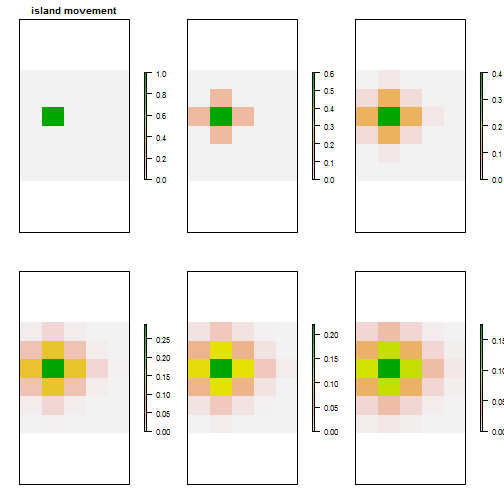
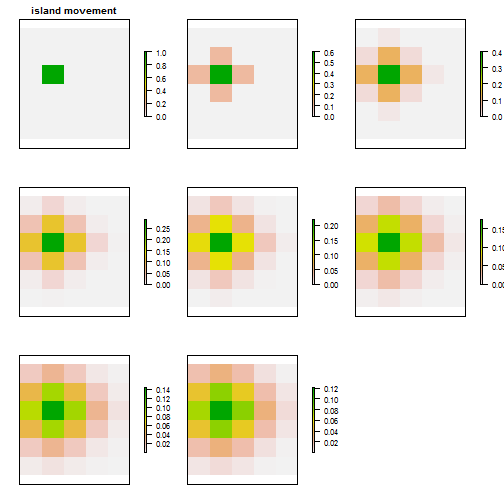
tweak post

diff --git a/_posts/2015-02-02-grid-movement.md b/_posts/2015-02-02-grid-movement.md
@@ -131,7 +131,7 @@ The movement functions shown above can be called over multiple time steps as sho
 {% highlight r %}
 nY <- 6
 nX <- 5
-nDays <- 6
+nDays <- 8
 #create arrays to store results
 aIsland <- aReflect <- array(0, dim=c(nY, nX, nDays))
  
@@ -151,7 +151,7 @@ for(day in 2:10)
 
 
 {% highlight text %}
-## Error in `[<-`(`*tmp*`, , , day, value = structure(c(0.01422, 0.049884, : subscript out of bounds
+## Error in `[<-`(`*tmp*`, , , day, value = structure(c(0.01747872, 0.04634952, : subscript out of bounds
 {% endhighlight %}
 
 
